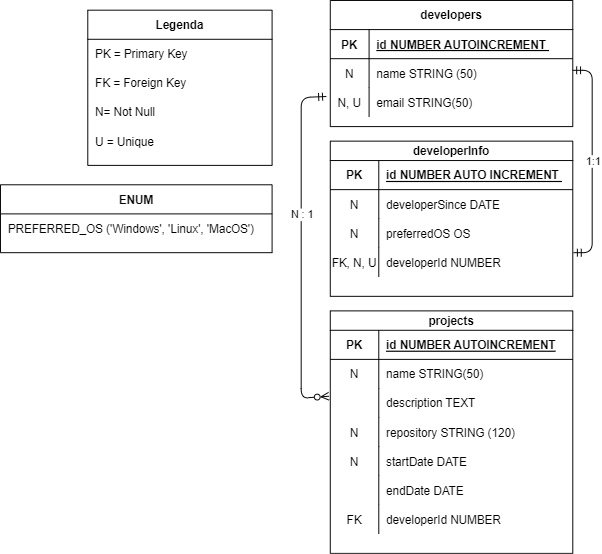
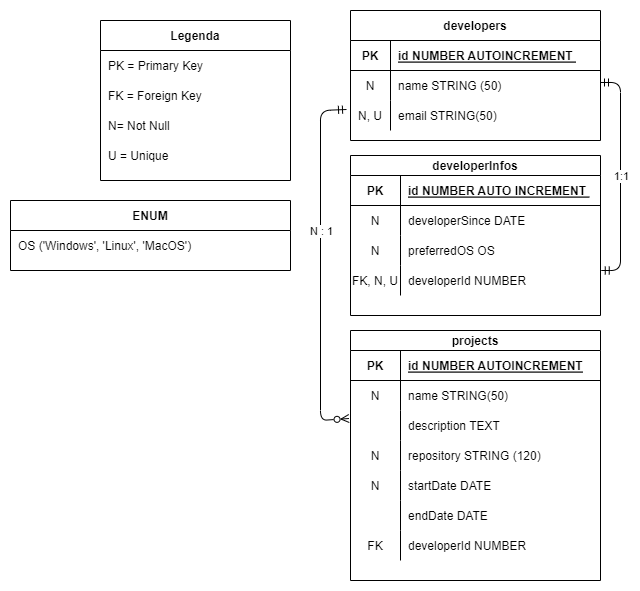
fix: nome da tabela developerInfos corrigido e ordem dos middlewares na rota developers/id/info

Changed region(s): [[0.0, 0.0, 1.0, 1.0]]

diff --git a/src/middlewares/developer.middlewares.ts b/src/middlewares/developer.middlewares.ts
@@ -5,7 +5,7 @@ import { AppError } from "../errors";
 import { DeveloperResult, ProjectsResult } from "../interfaces";
 
 const developerIdExistsMiddleware = async (req: Request, res: Response, next: NextFunction): Promise<void> => {
-    if(req.method === "PATCH" && !req.body.developerId) return next();
+    if(req.baseUrl === "/projects" && !req.body.developerId) return next();
 
     const id: string = req.body.developerId || req.params.id
 
@@ -15,13 +15,13 @@ const developerIdExistsMiddleware = async (req: Request, res: Response, next: Ne
     if(!queryResult.rowCount){
         throw new AppError("Developer not found.", 404);
     };
-    
+
     return next();
 };
 
 
 const emailExistsMiddleware = async (req: Request, res: Response, next: NextFunction): Promise<void> => {
-    // diferente da demo
+    
     const queryResult: DeveloperResult = await client.query('SELECT * FROM "developers" WHERE "email" = $1;', [req.body.email]);
 
     if(queryResult.rowCount > 0){
@@ -32,21 +32,23 @@ const emailExistsMiddleware = async (req: Request, res: Response, next: NextFunc
     return next();
 };
 
-const infoExistsMiddleware = async (req: Request, res: Response, next: NextFunction): Promise<Response | void> => {
-    const queryResult: ProjectsResult = await client.query('SELECT * FROM "developerInfo" WHERE "developerId" = $1;', [req.params.id]);
+const infoExistsMiddleware = async (req: Request, res: Response, next: NextFunction): Promise<void> => {
+    const queryResult: ProjectsResult = await client.query('SELECT * FROM "developerInfos" WHERE "developerId" = $1;', [req.params.id]);
 
-    console.log(req.params.id)
-    if(!queryResult.rowCount){
+    
+    if(queryResult.rowCount){
         throw new AppError("Developer infos already exists.", 409);
     };
     
     return next();
 };
 
-const invalidOS = async (req: Request, res: Response, next: NextFunction): Promise<Response | void> => {
-    const queryResult: QueryResult = await client.query('SELECT * FROM "developerInfo" WHERE "preferredOS" = $1;', [req.body.preferredOS]);
+const invalidOS = async (req: Request, res: Response, next: NextFunction): Promise<void> => {
+        
+    const inPreferredOS = ['Windows', 'Linux', 'MacOS'].includes(req.body.preferredOS)
 
-    if(!queryResult.rowCount){
+      
+    if(!inPreferredOS){
         throw new AppError("Invalid OS option.", 400);
     };
     

diff --git a/src/routers/developer.router.ts b/src/routers/developer.router.ts
@@ -2,21 +2,17 @@ import { Router } from "express";
 import { developerControllers } from "../controllers";
 import { developerIdExistsMiddleware, emailExistsMiddleware, infoExistsMiddleware, invalidOS } from "../middlewares";
 
-// import developerInfoRouter from "./developerInfo.router";
-
 const developerRouter: Router = Router();
 
 developerRouter.post("", emailExistsMiddleware, developerControllers.create);
 
 developerRouter.get("", developerControllers.read);
 
-// developerRouter - middleware de developer exists para ser usado em todas as rotas/:id
-
 developerRouter.get("/:id", developerIdExistsMiddleware, developerControllers.readById);
 
 developerRouter.patch("/:id", developerIdExistsMiddleware, emailExistsMiddleware, developerControllers.update);
 developerRouter.delete("/:id", developerIdExistsMiddleware, developerControllers.destroy);
 
-developerRouter.post("/:id/infos",  developerIdExistsMiddleware, invalidOS, infoExistsMiddleware, developerControllers.createInfo);
+developerRouter.post("/:id/infos", developerIdExistsMiddleware, infoExistsMiddleware,  invalidOS, developerControllers.createInfo);
 
 export default developerRouter;

diff --git a/src/services/developer.services.ts b/src/services/developer.services.ts
@@ -42,8 +42,6 @@ const readById = async (developerId: string): Promise<Developer> => {
 
     const queryResult: DeveloperResult = await client.query(queryString, [developerId])
 
-    console.log(queryResult.rows[0])
-
     return queryResult.rows[0];
 };
 
@@ -76,7 +74,7 @@ const destroy = async(id: string): Promise<Developer> => {
 
 const createInfo = async(payload: DeveloperInfoCreate): Promise<DeveloperInfo> => {
     const queryString: string = format(`
-        INSERT INTO "developerInfo" (%I)
+        INSERT INTO "developerInfos" (%I)
         VALUES (%L)
         RETURNING *;`,
         Object.keys(payload),
@@ -85,7 +83,6 @@ const createInfo = async(payload: DeveloperInfoCreate): Promise<DeveloperInfo> =
 
     const queryResult: DeveloperInfoResult = await client.query(queryString);
 
-    console.log(queryResult.rows[0])
     return queryResult.rows[0];
 };
 

diff --git a/src/routers/projects.router.ts b/src/routers/projects.router.ts
@@ -1,14 +1,12 @@
 import { Router } from "express";
 import { projectsControllers } from "../controllers";
 import { developerIdExistsMiddleware, projectIdExistsMiddleware } from "../middlewares";
-// import { developerIdExistsMiddleware, emailExistsMiddleware } from "../middlewares";
-// import projectsInfoRouter from "./projectsInfo.router";
 
 const projectsRouter: Router = Router();
 
 projectsRouter.post("", developerIdExistsMiddleware, projectsControllers.create);
 
-projectsRouter.patch("/:id", projectsControllers.update);
+projectsRouter.patch("/:id", projectIdExistsMiddleware, developerIdExistsMiddleware,  projectsControllers.update);
 projectsRouter.get("/:id", projectIdExistsMiddleware, projectsControllers.readById);
 
 export default projectsRouter;

diff --git a/src/services/projects.services.ts b/src/services/projects.services.ts
@@ -12,7 +12,6 @@ const create = async (payload: ProjectsCreate): Promise<Projects> => {
 
     const queryResult: ProjectsResult = await client.query(queryString);
 
-    console.log(queryResult.rows[0])
     return queryResult.rows[0];
 };
 
@@ -37,8 +36,6 @@ const readById = async (projectId: string): Promise<Projects> => {
 
     const queryResult: ProjectsResult = await client.query(queryString, [projectId])
 
-    console.log(queryResult.rows[0])
-
     return queryResult.rows[0];
 };
 
@@ -56,7 +53,6 @@ const update = async(id: string, payload: Projects): Promise<Projects> => {
 
     const queryResult: ProjectsResult = await client.query(queryString, [id]);
 
-    console.log(payload)
     return queryResult.rows[0];
 };
 

diff --git a/src/controllers/projects.controllers.ts b/src/controllers/projects.controllers.ts
@@ -4,7 +4,7 @@ import { projectsServices } from "../services";
 
 const create = async (req: Request, res: Response): Promise<Response> => {
     const project: Projects = await projectsServices.create(req.body);
-    console.log(project)
+   
     return res.status(201).json(project);
 };
 
@@ -18,7 +18,6 @@ const update = async (req: Request, res: Response): Promise<Response> => {
 
     const project: Projects = await projectsServices.update(req.params.id, req.body);
 
-    console.log(req.params.id)
     return res.status(200).json(project);
 };
 

diff --git a/src/middlewares/projects.middlewares.ts b/src/middlewares/projects.middlewares.ts
@@ -4,12 +4,11 @@ import { client } from "../database";
 import { AppError } from "../errors";
 
 const projectIdExistsMiddleware = async (req: Request, res: Response, next: NextFunction): Promise<void> => {
-    const id: string = req.body.id;
+    const id: string = req.params.id;
 
     const queryResult: ProjectsResult = await client.query('SELECT * FROM "projects" WHERE "id" = $1;', [id]);
 
-    console.log(id);
-    if(queryResult.rowCount){
+    if(!queryResult.rowCount){
         throw new AppError("Project not found.", 404)
     }
 

diff --git a/src/controllers/developer.controllers.ts b/src/controllers/developer.controllers.ts
@@ -33,13 +33,13 @@ const destroy = async(req: Request, res: Response): Promise<Response> => {
 };
 
 const createInfo = async (req: Request, res: Response): Promise<Response> => {
+    
     const payload: DeveloperInfoCreate = {
         ...req.body,
         developerId: req.params.id
     }
     const developerInfo: DeveloperInfo = await developerServices.createInfo(payload);
 
-    console.log(developerInfo)
     return res.status(201).json(developerInfo);
 };
 

diff --git a/src/middlewares/handleErrors.middlewares.ts b/src/middlewares/handleErrors.middlewares.ts
@@ -8,7 +8,7 @@ export const handleErrors = (
   next: NextFunction
 ): Response => {
   if (error instanceof AppError) {
-    return res.status(error.status).json({ error: error.message });
+    return res.status(error.status).json({ message: error.message });
   }
 
   console.error(error);

diff --git a/src/database.ts b/src/database.ts
@@ -1,5 +1,5 @@
 import { Client, ClientConfig } from 'pg'
-// import 'dotenv/config'
+import 'dotenv/config'
 
 const databaseConfig = (): ClientConfig => {
     if (process.env.NODE_ENV === 'test') {
